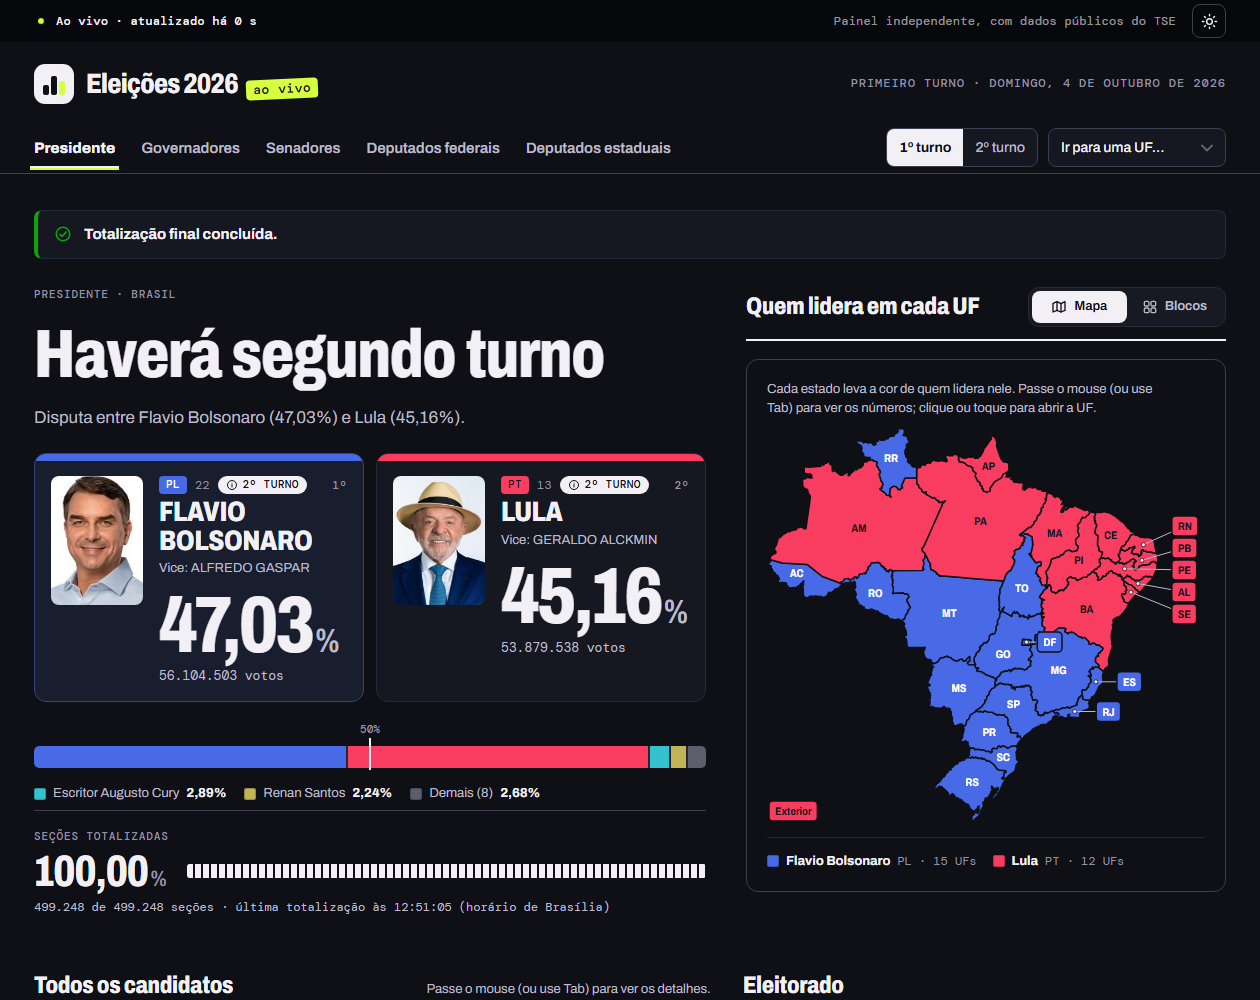
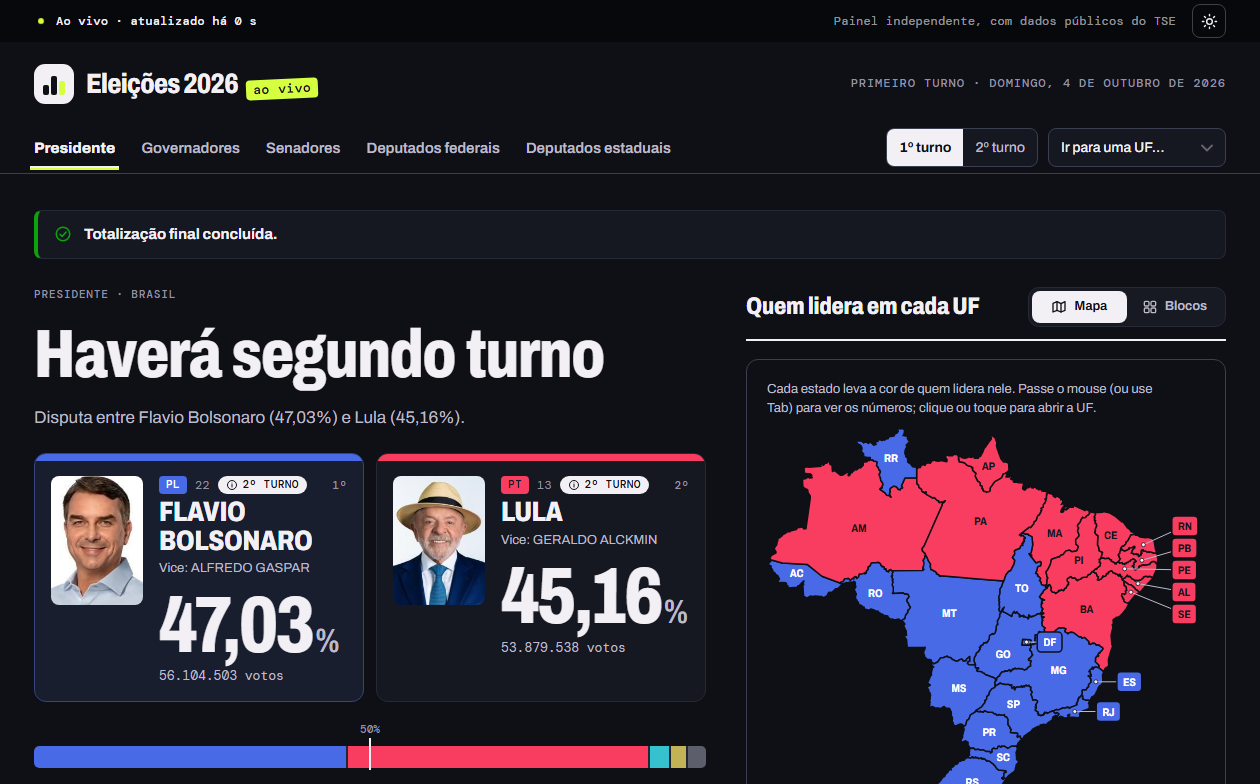
Eleições ao Vivo no mesmo formato dos demais projetos, ainda em primeiro
Remove a variante de destaque (CSS, template, teste e documentação), reduz a descrição
e recorta a imagem na proporção 16:10 dos cartões.

diff --git a/public/static/style.css b/public/static/style.css
@@ -776,35 +776,6 @@ button {
     margin-top: auto;
 }
 
-/* projeto em destaque: ocupa a largura toda; a partir de 80rem, imagem ao lado do texto */
-@media (min-width: 48rem) {
-    .projeto-destaque {
-        grid-column: 1 / -1;
-    }
-}
-
-@media (min-width: 80rem) {
-    .projeto-destaque {
-        flex-direction: row;
-    }
-
-    .projeto-destaque .projeto-imagem {
-        flex: 0 0 60%;
-        aspect-ratio: auto;
-        border-right: 1px solid var(--linha);
-        border-bottom: 0;
-    }
-
-    .projeto-destaque .projeto-corpo {
-        justify-content: center;
-        padding: 1.75rem 2rem;
-    }
-
-    .projeto-destaque h3 {
-        font-size: 1.45rem;
-    }
-}
-
 .formula {
     display: block math;
     margin: 0.7rem 0;

diff --git a/templates/homepage.html b/templates/homepage.html
@@ -139,7 +139,7 @@
                 <h2 class="titulo" id="titulo-portfolio">Meu portfólio</h2>
                 <div class="projetos">
                     {%- for projeto in projetos %}
-                    <article class="projeto{% if projeto.destaque %} projeto-destaque{% endif %}">
+                    <article class="projeto">
                         <div class="projeto-imagem">
                             <img src="{{ url_for('static', filename='images/' ~ projeto.imagem) }}" alt="Captura de tela do projeto: {{ projeto.titulo }}" width="900" height="560" loading="lazy" decoding="async">
                         </div>

diff --git a/conteudo.py b/conteudo.py
@@ -65,7 +65,6 @@ CURRICULO = {
 PROJETOS = [
     {
         "titulo": "Eleições ao Vivo 2026",
-        "destaque": True,
         "tags": [
             tag("icones/python.webp", "Python e Flask"),
             tag("icones/estatistica.webp", "Dados públicos do TSE"),
@@ -73,7 +72,7 @@ PROJETOS = [
         "imagem": "projetos/eleicoes-ao-vivo.webp",
         "chave_bot": "Eleições ao Vivo",
         "link": "https://github.com/luukas20/eleicoes-ao-vivo",
-        "descricao": "Painel não oficial para acompanhar ao vivo a apuração das eleições de 2026, feito em Python e Flask sobre os arquivos públicos de divulgação do TSE. Reúne Presidente, Governador, Senador e Deputados, com mapa do Brasil, ranking, gráfico de evolução, hemiciclo por UF e busca por município, em celular, tablet e computador. Só o servidor consulta o TSE, dentro das regras de uso dele. Tem testes automatizados, simulador de dados e acessibilidade verificada. A captura mostra o resultado final do primeiro turno, de 4 de outubro de 2026.",
+        "descricao": "Painel não oficial para acompanhar ao vivo a apuração das eleições de 2026, feito em Python e Flask sobre os arquivos públicos de divulgação do TSE. Reúne Presidente, Governador, Senador e Deputados, com mapa do Brasil, ranking, gráfico de evolução e busca por município, em celular, tablet e computador. Só o servidor consulta o TSE, dentro das regras de uso dele. A captura mostra o resultado final do primeiro turno, de 4 de outubro de 2026.",
     },
     {
         "titulo": "Modelagem de Perda Esperada (PE)",

diff --git a/tests/test_conteudo.py b/tests/test_conteudo.py
@@ -195,10 +195,11 @@ def test_configuracao_da_vercel_valida():
     assert (RAIZ / ".python-version").read_text(encoding="utf-8").strip() == "3.12"
 
 
-def test_um_unico_projeto_em_destaque_com_link_publico():
-    destaques = [p for p in conteudo.PROJETOS if p.get("destaque")]
-    assert len(destaques) == 1
-    assert destaques[0]["link"].startswith("https://github.com/luukas20/")
-    assert home().count("projeto-destaque") == 1
-    # o cartão em destaque abre a lista (mais recente e mais completo)
-    assert conteudo.PROJETOS[0] is destaques[0]
+def test_eleicoes_abre_a_lista_com_o_mesmo_formato_dos_demais():
+    primeiro = conteudo.PROJETOS[0]
+    assert primeiro["titulo"].startswith("Eleições ao Vivo")
+    assert primeiro["link"].startswith("https://github.com/luukas20/")
+    # nenhum cartão tem destaque: todos têm o mesmo tamanho
+    assert not any(p.get("destaque") for p in conteudo.PROJETOS)
+    assert "projeto-destaque" not in home()
+

diff --git a/CLAUDE.md b/CLAUDE.md
@@ -69,7 +69,7 @@ tests/                   test_chat.py (endpoint do chat) e test_conteudo.py (con
 O conteúdo da página vive em `conteudo.py`; o do chatbot, em `prompts/conhecimento.md` (editado à mão). Os dois precisam andar juntos:
 
 - **Novo projeto / cargo / habilidade**: atualizar (1) `conteudo.py` (o card aparece sozinho), (2) `prompts/conhecimento.md` (senão o chatbot responde que "não tem essa informação") e (3) `SOBRE_MIM` em `conteudo.py`, se o texto mudar.
-- **Novo projeto na página**: copiar um item de `PROJETOS` em `conteudo.py` (`titulo`, `tags` com `tag("icones/x.webp", nome)`, `imagem` em `projetos/x.webp`, `link`, `descricao` em HTML, `chave_bot`; `destaque: True` faz o cartão ocupar a largura toda, use em um só). A imagem do Eleições ao Vivo é captura do painel real (dados do TSE no fim do 1º turno, 4/out/2026), feita de uma cópia do projeto em pasta temporária com Chrome headless (PORT=5077; os estados carregam aos poucos, esperar ~1 min); não rodar o painel na porta 8000, que o Lucas usa para outro app. Para gerar o WebP: colocar o original em `imagens-originais/`, incluí-lo no mapa de `tools/otimizar_imagens.py` e rodar o script; depois registrar a origem (`impeccable embed-prompt`, que cria o `.json` ao lado).
+- **Novo projeto na página**: copiar um item de `PROJETOS` em `conteudo.py` (`titulo`, `tags` com `tag("icones/x.webp", nome)`, `imagem` em `projetos/x.webp`, `link`, `descricao` em HTML, `chave_bot`; todos os cartões têm o mesmo tamanho, sem variante de destaque, a ordem é do mais recente para o mais antigo). A imagem do Eleições ao Vivo é captura do painel real (dados do TSE no fim do 1º turno, 4/out/2026), feita de uma cópia do projeto em pasta temporária com Chrome headless (PORT=5077; os estados carregam aos poucos, esperar ~1 min); não rodar o painel na porta 8000, que o Lucas usa para outro app. Para gerar o WebP: colocar o original em `imagens-originais/`, incluí-lo no mapa de `tools/otimizar_imagens.py` e rodar o script; depois registrar a origem (`impeccable embed-prompt`, que cria o `.json` ao lado).
 - **Novo cargo**: item em `TRAJETORIA` (do mais recente para o mais antigo; `atual: True` só no cargo em andamento).
 - Links de redes sociais (LinkedIn, GitHub, e-mail) ficam em `REDES` e aparecem sozinhos no sobre-mim e no contato.
 - **Currículo**: o PDF baixável é `public/static/docs/Curriculo-Lucas-Costa.pdf` (configurado em `CURRICULO`, `conteudo.py`). O Word de origem fica **fora** do repositório (pasta `Documents\Curriculo` do Lucas); para atualizar, editar o Word, exportar o PDF e trocar o arquivo, mantendo o nome. O PDF tem link para a URL do site (hoje `lucas-costa-estatistico.vercel.app`): se o endereço mudar, atualizar o currículo também. Troca só do link sem abrir o Word: editar o destino em `word/_rels/document.xml.rels` do .docx e, no PDF, o `/URI` da anotação (pypdf), pois a automação do Word por COM travou nesta máquina.

diff --git a/prompts/conhecimento.md b/prompts/conhecimento.md
@@ -155,7 +155,7 @@ Universidade Federal de Sergipe - UFS - Bacharelado em Estatística - 2019/2024
 * TCC (Universidade Federal de Sergipe, nota 10, a nota máxima):
 1   Análise comparativa entre o modelo ARMA-GARCH e redes neurais LSTM para prever o preço de fechamento do BOVA11, com dados de 2018 a 2024 e teste em fevereiro de 2024. Os dois modelos tiveram ótimo desempenho, com erro percentual médio (MAPE) abaixo de 1%: 0,60% no ARMA(9,10)-GARCH(2,1) e 0,63% na LSTM, e ambos superaram a previsão ingênua (U-Theil de 0,55 e 0,57). O ARMA-GARCH ficou ligeiramente melhor. A LSTM final usou janela de 15 dias, três camadas ocultas (128, 64 e 32 neurônios), função de ativação Leaky ReLU, Dropout, otimizador Adam e 200 épocas, definidos depois de comparar otimizadores e funções de ativação. O trabalho também traz a parte matemática das redes neurais e um relatório em Power BI com as previsões. Ferramentas: R (modelos) e LaTeX (escrita do trabalho).
 
-* Painel Eleições ao Vivo 2026 (projeto em destaque no portfólio):
+* Painel Eleições ao Vivo 2026 (projeto do portfólio):
 1   Painel não oficial de acompanhamento ao vivo da apuração das eleições brasileiras de 2026, feito pelo Lucas em Python e Flask sobre os arquivos públicos de divulgação de resultados do TSE (resultados.tse.jus.br). É um projeto independente, sem vínculo com o TSE, com código aberto (licença MIT) em github.com/luukas20/eleicoes-ao-vivo.
     O que mostra: Presidente, Governador, Senador e Deputados Federal, Estadual e Distrital. Tem mapa do Brasil com cada estado pintado pela cor de quem lidera, ranking completo com partido, gráfico de evolução do percentual dos primeiros colocados ao longo da apuração (por horário ou por % das seções totalizadas), hemiciclo com as vagas de cada partido ou federação por UF, busca por município e por candidato, e avisos honestos (apuração não iniciada, segundo turno, totalização final, dados desatualizados). Funciona em celular, tablet e computador, com tema claro e escuro, sem dependências externas no navegador, e a acessibilidade foi verificada com axe-core.
     Como funciona: só o servidor consulta o TSE (com consulta condicional por ETag e respeitando as regras de uso do TSE, com limite de requisições e disjuntor ao receber 403 ou 429); os navegadores falam apenas com a API do painel. Guarda o histórico de cada totalização para montar o gráfico de evolução. Tem testes unitários e de API sem rede, testes de interface no Chrome com Playwright e um simulador do TSE com dados fictícios para ensaiar a noite da apuração. A captura mostrada no portfólio é do painel com os dados reais publicados pelo TSE no fim do primeiro turno (4 de outubro de 2026).

diff --git a/DESIGN.md b/DESIGN.md
@@ -222,7 +222,7 @@ Cantos arredondados moderados: `raio` (12px) em botões, botão de menu e marca;
 - **Link com seta** (`link-seta`): texto `acento` 600, sem sublinhado; hover escurece e sublinha.
 
 ### Cards / Containers
-- **Cartão de projeto:** fundo branco, borda `linha`, canto 22px, imagem 16:10 no topo com filete embaixo, corpo com padding 1.4rem 1.5rem 1.5rem, título, tags, descrição e link com seta empurrado para o fim. Sombra de repouso mínima; sem elevação no hover. Variante `projeto-destaque` (um projeto por vez, `destaque: True` em `conteudo.py`): ocupa as duas colunas a partir de 48rem, com a imagem em cima; a partir de 80rem a imagem vai para a esquerda (60% da largura) e o texto à direita.
+- **Cartão de projeto:** fundo branco, borda `linha`, canto 22px, imagem 16:10 no topo com filete embaixo, corpo com padding 1.4rem 1.5rem 1.5rem, título, tags, descrição e link com seta empurrado para o fim. Sombra de repouso mínima; sem elevação no hover. Todos os cartões têm o mesmo tamanho e peso; o projeto mais recente vai primeiro, sem variante de destaque.
 - **Especialidade:** sem caixa; filete superior de `linha-forte` com um traço de acento de 2.75rem por 3px.
 - **Citação:** cartão branco, canto 22px, texto de título em Bricolage 500.
 

diff --git a/PRODUCT.md b/PRODUCT.md
@@ -51,7 +51,7 @@ Diferencial do site: um assistente de IA ("Puxa Saco") que responde sobre o perf
 
 ## Evidence on Hand
 
-- Sete projetos publicados (imagens em `public/static/images/`, descrições em `conteudo.py`): Eleições ao Vivo 2026 (em destaque, código aberto no GitHub), Perda Esperada, Visão Computacional (Gatos vs. Cachorros), Faturamento vs Meta, Previsão BOVA11, Controle de Gastos Pessoais, Previsão Ações Streamlit.
+- Sete projetos publicados (imagens em `public/static/images/`, descrições em `conteudo.py`): Eleições ao Vivo 2026 (o mais recente, vai primeiro; código aberto no GitHub), Perda Esperada, Visão Computacional (Gatos vs. Cachorros), Faturamento vs Meta, Previsão BOVA11, Controle de Gastos Pessoais, Previsão Ações Streamlit.
 - **Pode mostrar métricas da Cencosud**, como o Índice de Cobertura de 115% do projeto de Perda Esperada.
 - Cat vs Dog: repositório público em `github.com/luukas20/cnn-cat-vs-dog` (notebooks lidos; conclusões aguardam confirmação do Lucas antes de irem para o site ou o chatbot).
 - Experiência: Iguá Saneamento, Cencosud, Hospital Primavera, TRE-SE. Formação e cursos em `prompts/conhecimento.md`.
